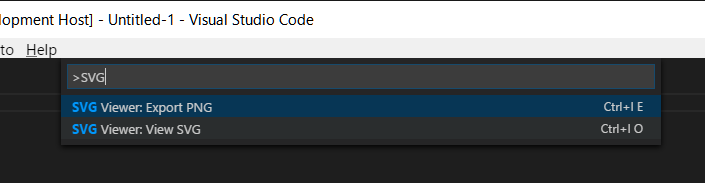
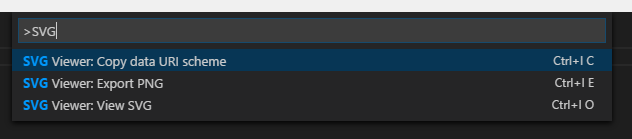
Update README.

diff --git a/README-ja.md b/README-ja.md
@@ -16,6 +16,9 @@ SVGをエディタ上で表示
 ### Export PNG - `Ctrl(Cmd)+I E`
 SVGをPNGに変換
 
+### Copy data URI scheme - `Ctrl(Cmd)+I C`
+SVGをdata URI schemeに変換し、クリップボードにコピー
+
 ![preview](img/preview.png)
 
 ### Options

diff --git a/README.md b/README.md
@@ -17,6 +17,9 @@ Display SVG on an Editor
 ### Export PNG - `Ctrl(Cmd)+I E`
 Convert from SVG to PNG
 
+### Copy data URI scheme - `Ctrl(Cmd)+I C`
+Convert from SVG to data URI scheme and copy to the clipboard
+
 ![preview](img/preview.png)
 
 ### Options
